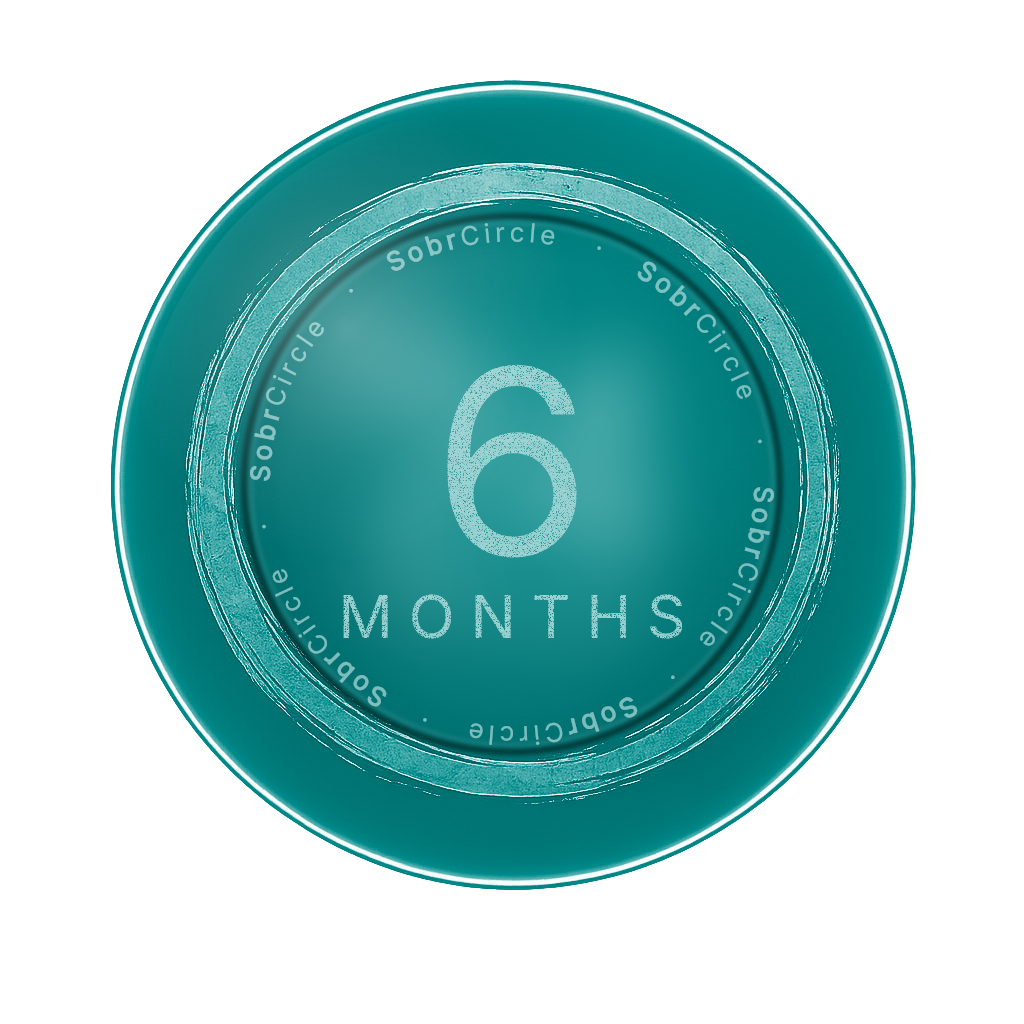
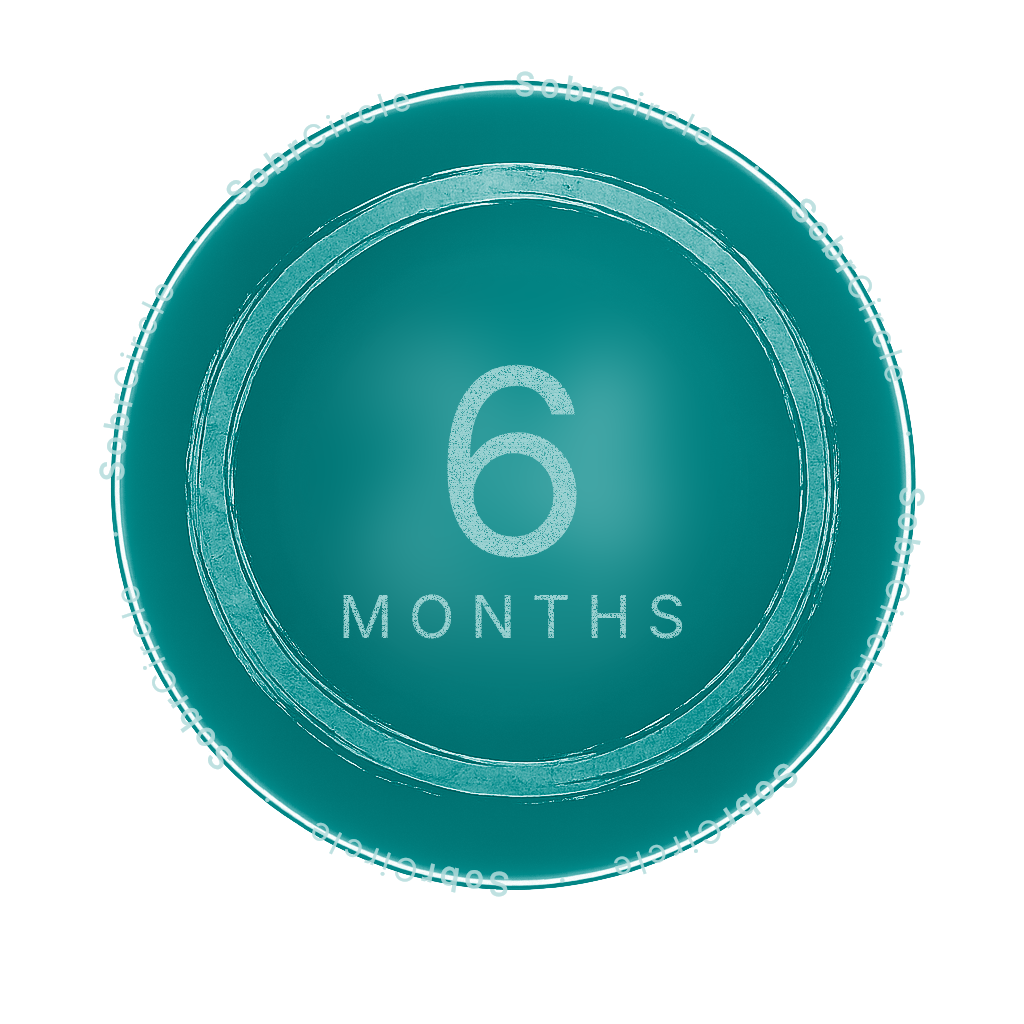
Move SobrCircle micro-text to outside the chrome ring; drop bevel + specular
Removes the inner bevel and specular highlight passes. Keeps only the
SobrCircle micro-typography, repositioned from inside the ring (r=252)
to the outside (r=400), running around the outer perimeter of the chrome
ring where the under-glow used to sit. 8 repeats of "Sobr" (bold) +
"Circle" (regular) + bullet, evenly spaced around the circumference.

https://claude.ai/code/session_01TqmVcPLJNZuf7Q6XCPWgNk

diff --git a/scripts/generate-badges.ts b/scripts/generate-badges.ts
@@ -257,6 +257,70 @@ function hexToRgb(hex: string): [number, number, number] {
 // the canvas outside the badge stays transparent for in-app use.
 const DISC_REF_LUM = 0.8
 
+// Micro-typography running around the OUTSIDE of the chrome ring —
+// where the under-glow used to sit. Repeats "SobrCircle" with "Sobr" in
+// bold and "Circle" in regular, evenly distributed around the full
+// circumference. Uses the same lightened-tint hue as the main text so
+// it stays in family.
+function drawMicroTypography(ctx: SKRSContext2D, hex: string) {
+  const [r, g, b] = hexToRgb(hex)
+  const k = 0.7
+  const lr = Math.round(r + (255 - r) * k)
+  const lg = Math.round(g + (255 - g) * k)
+  const lb = Math.round(b + (255 - b) * k)
+  const fill = `rgba(${lr}, ${lg}, ${lb}, 0.85)`
+
+  // Just outside the chrome ring outer edge (~r=390) — sits in the
+  // halo zone where the under-glow used to be.
+  const radius = 400
+  const fontSize = 32
+
+  const segments: { text: string; weight: number }[] = []
+  const repeats = 8
+  for (let i = 0; i < repeats; i++) {
+    segments.push({ text: 'Sobr',   weight: 700 })
+    segments.push({ text: 'Circle', weight: 400 })
+    segments.push({ text: '   ·   ', weight: 400 })
+  }
+
+  const chars: { c: string; w: number; weight: number }[] = []
+  let totalWidth = 0
+  for (const seg of segments) {
+    ctx.font = `${seg.weight} ${fontSize}px Inter`
+    for (const c of seg.text) {
+      const w = ctx.measureText(c).width
+      chars.push({ c, w, weight: seg.weight })
+      totalWidth += w
+    }
+  }
+
+  const circumference = 2 * Math.PI * radius
+  const slack = circumference - totalWidth
+  const perCharExtra = slack / chars.length
+
+  ctx.save()
+  ctx.translate(CX, CY)
+  ctx.fillStyle = fill
+  ctx.textAlign = 'center'
+  ctx.textBaseline = 'middle'
+
+  let angle = -Math.PI / 2
+  for (const ch of chars) {
+    const arcW = ch.w + perCharExtra
+    const charAngle = arcW / radius
+    angle += charAngle / 2
+    ctx.save()
+    ctx.rotate(angle)
+    ctx.translate(0, -radius)
+    ctx.font = `${ch.weight} ${fontSize}px Inter`
+    ctx.fillText(ch.c, 0, 0)
+    ctx.restore()
+    angle += charAngle / 2
+  }
+
+  ctx.restore()
+}
+
 function applyTint(ctx: SKRSContext2D, hex: string) {
   const [tr, tg, tb] = hexToRgb(hex)
   const img = ctx.getImageData(0, 0, SIZE, SIZE)
@@ -292,130 +356,6 @@ function applyTint(ctx: SKRSContext2D, hex: string) {
   ctx.putImageData(img, 0, 0)
 }
 
-// Micro-typography around the inner edge of the chrome ring — repeats
-// "SobrCircle" with "Sobr" in bold weight and "Circle" in regular, like
-// the engraved text on a luxury coin's bezel. Subtle by design; you have
-// to look close to read it. Uses the same lightened-tint hue as the
-// main text so it stays in family.
-function drawMicroTypography(ctx: SKRSContext2D, hex: string) {
-  const [r, g, b] = hexToRgb(hex)
-  const k = 0.7
-  const lr = Math.round(r + (255 - r) * k)
-  const lg = Math.round(g + (255 - g) * k)
-  const lb = Math.round(b + (255 - b) * k)
-  const fill = `rgba(${lr}, ${lg}, ${lb}, 0.7)`
-
-  // Place text just inside the chrome ring (ring inner edge ~r=265).
-  const radius = 252
-  const fontSize = 26
-
-  // Each repeat is "Sobr" (bold) + "Circle" (regular) + a bullet spacer.
-  // Spacer width is tuned so 6 repeats fill the full ring without gaps.
-  const segments: { text: string; weight: number }[] = []
-  const repeats = 6
-  for (let i = 0; i < repeats; i++) {
-    segments.push({ text: 'Sobr',   weight: 700 })
-    segments.push({ text: 'Circle', weight: 400 })
-    segments.push({ text: '   ·   ', weight: 400 })
-  }
-
-  // Measure each char so we can place them by arc-length around the circle.
-  const chars: { c: string; w: number; weight: number }[] = []
-  let totalWidth = 0
-  for (const seg of segments) {
-    ctx.font = `${seg.weight} ${fontSize}px Inter`
-    for (const c of seg.text) {
-      const w = ctx.measureText(c).width
-      chars.push({ c, w, weight: seg.weight })
-      totalWidth += w
-    }
-  }
-
-  // If chars total less than the circumference, distribute the slack as
-  // even per-char extra spacing so the row wraps continuously.
-  const circumference = 2 * Math.PI * radius
-  const slack = circumference - totalWidth
-  const perCharExtra = slack / chars.length
-
-  ctx.save()
-  ctx.translate(CX, CY)
-  ctx.fillStyle = fill
-  ctx.textAlign = 'center'
-  ctx.textBaseline = 'middle'
-
-  let angle = -Math.PI / 2 // start at top
-  for (const ch of chars) {
-    const arcW = ch.w + perCharExtra
-    const charAngle = arcW / radius
-    angle += charAngle / 2
-    ctx.save()
-    ctx.rotate(angle)
-    ctx.translate(0, -radius)
-    ctx.font = `${ch.weight} ${fontSize}px Inter`
-    ctx.fillText(ch.c, 0, 0)
-    ctx.restore()
-    angle += charAngle / 2
-  }
-
-  ctx.restore()
-}
-
-// Specular highlight in the upper-left of the disc — like a polished
-// coin catching light from above-left. Soft, low-opacity, white-ish. Sits
-// over the tinted disc; the disc cutout keeps it from spilling outside.
-function drawSpecularHighlight(ctx: SKRSContext2D) {
-  const off = createCanvas(SIZE, SIZE)
-  const octx = off.getContext('2d')
-
-  // Bright soft circle at upper-left interior of the disc.
-  const hx = CX - 165
-  const hy = CY - 155
-  const grad = octx.createRadialGradient(hx, hy, 0, hx, hy, 230)
-  grad.addColorStop(0, 'rgba(255, 255, 255, 0.32)')
-  grad.addColorStop(0.55, 'rgba(255, 255, 255, 0.10)')
-  grad.addColorStop(1, 'rgba(255, 255, 255, 0)')
-  octx.fillStyle = grad
-  octx.fillRect(0, 0, SIZE, SIZE)
-
-  // Mask to the disc area so the highlight stays on the coin.
-  octx.globalCompositeOperation = 'destination-in'
-  octx.fillStyle = '#000'
-  octx.beginPath()
-  octx.arc(CX, CY, 380, 0, Math.PI * 2)
-  octx.fill()
-
-  ctx.drawImage(off, 0, 0)
-}
-
-// Inner bevel: a soft dark ring right where the chrome ring meets the
-// inner disc. Reads as if the ring is raised above the disc surface
-// instead of painted onto it. Tiny effect; massive perceived quality.
-function drawInnerBevel(ctx: SKRSContext2D) {
-  const off = createCanvas(SIZE, SIZE)
-  const octx = off.getContext('2d')
-
-  // Dark ring just inside the chrome ring inner edge.
-  octx.strokeStyle = 'rgba(0, 0, 0, 0.5)'
-  octx.lineWidth = 6
-  octx.beginPath()
-  octx.arc(CX, CY, 268, 0, Math.PI * 2)
-  octx.stroke()
-
-  // Companion thin highlight just inside the dark ring — adds the
-  // light-from-above bevel suggestion.
-  octx.strokeStyle = 'rgba(255, 255, 255, 0.18)'
-  octx.lineWidth = 2
-  octx.beginPath()
-  octx.arc(CX, CY, 261, 0, Math.PI * 2)
-  octx.stroke()
-
-  // Soft blur so the bevel reads as a shadow, not a hard line.
-  ctx.save()
-  ctx.filter = 'blur(2px)'
-  ctx.drawImage(off, 0, 0)
-  ctx.restore()
-}
-
 async function renderBadge(template: any, d: Duration): Promise<Buffer> {
   // Pre-tint the template so the disc-gray anchor maps exactly to the
   // assigned color. Doing this first (rather than at the end) avoids the
@@ -428,15 +368,12 @@ async function renderBadge(template: any, d: Duration): Promise<Buffer> {
   const canvas = createCanvas(SIZE, SIZE)
   const ctx = canvas.getContext('2d')
 
-  // Order: tinted disc → erase old text → inner bevel (so it sits on
-  // the ring boundary) → micro-typography → main duration text →
-  // specular highlight on top.
+  // Tinted disc → erase old text → main duration text → SobrCircle
+  // micro-typography around the outside of the chrome ring.
   ctx.drawImage(tinted, 0, 0)
   eraseCenterText(ctx, tinted)
-  drawInnerBevel(ctx)
-  drawMicroTypography(ctx, d.color)
   drawText(ctx, d)
-  drawSpecularHighlight(ctx)
+  drawMicroTypography(ctx, d.color)
 
   return canvas.toBuffer('image/png')
 }
